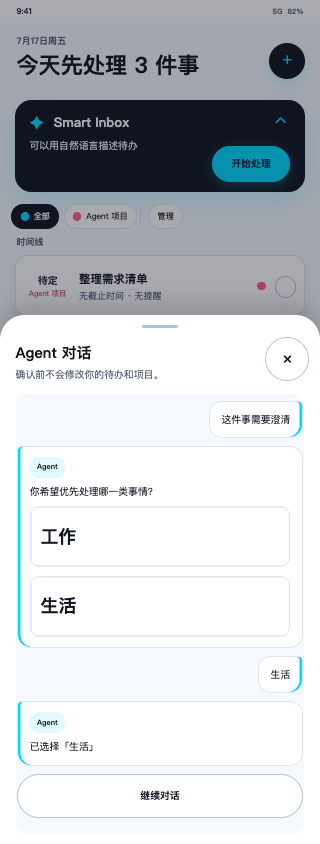
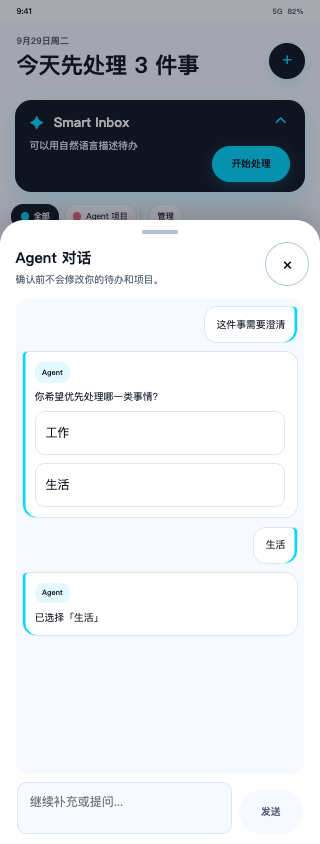
test(agent): 补全多轮对话正式页验收证据

diff --git a/tests/e2e/phase3-agent.spec.ts b/tests/e2e/phase3-agent.spec.ts
@@ -1,5 +1,5 @@
 import AxeBuilder from '@axe-core/playwright';
-import { expect, test, type APIRequestContext, type Page } from '@playwright/test';
+import { expect, test, type APIRequestContext, type Page, type Route } from '@playwright/test';
 
 const origin = `http://127.0.0.1:${Number(process.env.H5_PORT ?? 11086)}`;
 
@@ -113,7 +113,14 @@ test('Phase 3 对话、计划、Smart Inbox 与原子确认形成真实闭环', 
   expect(completed.items.length).toBeGreaterThan(0);
 
   await openAgentInput(page);
+  const clarificationTurnResponse = page.waitForResponse(
+    (response) =>
+      response.url().includes('/api/v1/agent/turns') && response.request().method() === 'POST',
+  );
   await submitAgentText(page, '这件事需要澄清');
+  const initialClarification = (await (await clarificationTurnResponse).json()) as {
+    conversationId: string;
+  };
   const conversation = page.getByRole('dialog', { name: 'Agent 对话' });
   await expect(conversation.getByText('你希望优先处理哪一类事情？')).toBeVisible({
     timeout: 20_000,
@@ -125,6 +132,7 @@ test('Phase 3 对话、计划、Smart Inbox 与原子确认形成真实闭环', 
     await expect(resolvedOption).toContainText(label);
     await expect(resolvedOption).toHaveCSS('color', 'rgb(16, 20, 32)');
     await expect(resolvedOption).toHaveCSS('opacity', '1');
+    await expect(resolvedOption).toHaveCSS('font-size', '12px');
   }
 
   await expect(conversation).not.toContainText('e2e-stub');
@@ -161,9 +169,125 @@ test('Phase 3 对话、计划、Smart Inbox 与原子确认形成真实闭环', 
           }),
       );
     expect(undersizedTargets, `${width}px Agent 面板不得存在小于 44px 的点击目标`).toEqual([]);
+    const composer = conversation.locator('.agentConversationComposer');
+    const thread = conversation.locator('.agentConversation');
+    const bounds = await Promise.all([composer.boundingBox(), thread.boundingBox()]);
+    expect(bounds[0] && bounds[1] && bounds[0].y >= bounds[1].y + bounds[1].height).toBe(true);
     await page.screenshot({
       animations: 'disabled',
       path: `docs/quality/screenshots/phase3-agent-clarification-${width}x844.png`,
     });
   }
+
+  await page.setViewportSize({ width: 390, height: 560 });
+  await expect(conversation.getByLabel('继续告诉 Agent 的内容').locator('textarea')).toBeVisible();
+  await page.screenshot({
+    animations: 'disabled',
+    path: 'docs/quality/screenshots/phase3-agent-clarification-390x560.png',
+  });
+  const input = conversation.getByLabel('继续告诉 Agent 的内容').locator('textarea');
+  const inputBounds = await input.boundingBox();
+  const sendBounds = await conversation.getByRole('button', { name: '发送给 Agent' }).boundingBox();
+  expect(inputBounds?.width).toBeGreaterThan(180);
+  expect(sendBounds?.width).toBeLessThanOrEqual(80);
+  expect(sendBounds && inputBounds && sendBounds.x >= inputBounds.x + inputBounds.width).toBe(true);
+  await input.fill('关于生活的第一轮补充');
+  const firstFollowupResponse = page.waitForResponse(
+    (response) =>
+      response.url().includes('/api/v1/agent/turns') && response.request().method() === 'POST',
+  );
+  await conversation.getByRole('button', { name: '发送给 Agent' }).click();
+  const firstFollowup = (await (await firstFollowupResponse).json()) as { conversationId: string };
+  expect(firstFollowup.conversationId).toBe(initialClarification.conversationId);
+  await expect(conversation.getByText('关于生活的第一轮补充')).toBeVisible({ timeout: 20_000 });
+  await expect(conversation.getByText('我已经理解你的目标，可以继续为你生成计划。')).toBeVisible({
+    timeout: 20_000,
+  });
+
+  await input.fill('验证上下文');
+  const secondFollowupResponse = page.waitForResponse(
+    (response) =>
+      response.url().includes('/api/v1/agent/turns') && response.request().method() === 'POST',
+  );
+  await conversation.getByRole('button', { name: '发送给 Agent' }).click();
+  const secondFollowup = (await (await secondFollowupResponse).json()) as {
+    conversationId: string;
+  };
+  expect(secondFollowup.conversationId).toBe(initialClarification.conversationId);
+  await expect(conversation.getByText('已关联前文的澄清和第一轮补充。')).toBeVisible({
+    timeout: 20_000,
+  });
+
+  await input.fill('这件事需要澄清');
+  await conversation.getByRole('button', { name: '发送给 Agent' }).click();
+  await expect(conversation.getByRole('button', { name: '都不是，补充说明' })).toBeEnabled({
+    timeout: 20_000,
+  });
+  await conversation.getByRole('button', { name: '都不是，补充说明' }).click();
+  await expect(input).toBeFocused();
+  await input.fill('我需要先处理家里的事情');
+  let rejectedOnce = false;
+  const rejectStaleAnswer = async (route: Route) => {
+    if (rejectedOnce) return route.continue();
+    rejectedOnce = true;
+    await route.fulfill({
+      contentType: 'application/json',
+      status: 409,
+      body: JSON.stringify({
+        error: {
+          code: 'AGENT_MESSAGE_VERSION_CONFLICT',
+          details: {},
+          message: '问题已发生变化，请刷新后重试',
+          requestId: 'req_e2econflict',
+        },
+      }),
+    });
+  };
+  await page.route('**/api/v1/conversations/*/messages/*/answers', rejectStaleAnswer);
+  const rejectedAnswer = page.waitForResponse(
+    (response) => response.url().includes('/answers') && response.status() === 409,
+  );
+  await conversation.getByRole('button', { name: '发送给 Agent' }).click();
+  await rejectedAnswer;
+  await expect(input).toHaveValue('我需要先处理家里的事情');
+  await expect(conversation.getByRole('button', { name: '发送给 Agent' })).toBeEnabled();
+  await page.unroute('**/api/v1/conversations/*/messages/*/answers', rejectStaleAnswer);
+  const freeTextAnswer = page.waitForResponse(
+    (response) => response.url().includes('/answers') && response.request().method() === 'POST',
+  );
+  await conversation.getByRole('button', { name: '发送给 Agent' }).click();
+  const freeTextAnswerResponse = await freeTextAnswer;
+  expect(freeTextAnswerResponse.status()).toBe(202);
+  const freeTextQueued = (await freeTextAnswerResponse.json()) as {
+    request: { requestId: string };
+  };
+  await expect(conversation.getByText('我需要先处理家里的事情')).toBeVisible({ timeout: 20_000 });
+  await expect
+    .poll(
+      async () => {
+        const response = await page.request.get(
+          `/api/v1/agent/requests/${freeTextQueued.request.requestId}`,
+        );
+        return ((await response.json()) as { status: string }).status;
+      },
+      { timeout: 20_000 },
+    )
+    .toBe('SUCCEEDED');
+  await expect(conversation.getByText('Agent 正在处理…')).toBeHidden({ timeout: 20_000 });
+
+  await input.fill('关闭期间继续处理');
+  let closingTurnCount = 0;
+  const delayedTurn = async (route: Route) => {
+    closingTurnCount += 1;
+    await new Promise((resolve) => setTimeout(resolve, 750));
+    await route.continue();
+  };
+  await page.route('**/api/v1/agent/turns', delayedTurn);
+  await conversation.getByRole('button', { name: '发送给 Agent' }).dblclick();
+  await expect.poll(() => closingTurnCount).toBe(1);
+  await conversation.getByRole('button', { name: '关闭Agent 对话' }).click();
+  await expect(conversation).toBeHidden();
+  await page.waitForTimeout(1_000);
+  await expect(conversation).toBeHidden();
+  await page.unroute('**/api/v1/agent/turns', delayedTurn);
 });

diff --git a/docs/quality/2026-09-29-agent-conversation-review.md b/docs/quality/2026-09-29-agent-conversation-review.md
@@ -1,0 +1,29 @@
+# 正式 Agent 对话浮层修正验收
+
+日期：2026-09-29。对照 Figma Production V3 `229:2` 与 PRD 4.7，范围为正式 H5 对话浮层；T24 人工审查门禁保持待审。
+
+## 修正结果
+
+- 标题留在顶部、消息区独立滚动、文字输入和发送按钮固定在底部。390×560 压缩视口下输入仍可见；监听 `visualViewport` 的高度和偏移，让键盘收缩可用区域时优先缩小消息区。
+- 候选按钮使用项目的 12px/18px 正文字号与常规字重，清理 Taro 默认按钮边框；保留白底、细边框和至少 44px 热区。禁用发送态使用既有 Screen/Muted 色，axe 对比度检查通过。
+- 同一浮层的普通追问沿用 `conversationId`；最新待回答问题的自由文本走原回答接口，候选按钮继续走原选项接口。“都不是，补充说明”聚焦底部输入。处理中可继续编辑草稿，发送入口禁用；请求成功只清除本次草稿，冲突后刷新问题并保留文本。
+- 已关闭或切换的浮层不会因本次文本提交结果重新打开。没有新增公开 API、数据表、Agent 协议或写入确认路径。
+
+## 正式页证据
+
+| 视口    | 截图                                                             |
+| ------- | ---------------------------------------------------------------- |
+| 320×844 | [Agent 对话](screenshots/phase3-agent-clarification-320x844.png) |
+| 390×844 | [Agent 对话](screenshots/phase3-agent-clarification-390x844.png) |
+| 480×844 | [Agent 对话](screenshots/phase3-agent-clarification-480x844.png) |
+| 390×560 | [压缩视口](screenshots/phase3-agent-clarification-390x560.png)   |
+
+三档宽度的真实按钮热区检查、无横向溢出、输入区位于消息区下方，以及 390×560 的输入宽度断言均通过。压缩视口用于模拟软键盘占用空间；本轮没有在实体手机上验证系统键盘。
+
+## 运行复验
+
+- 客户端单测 79/79；仓库 `pnpm test` 12/12 任务通过。`pnpm lint` 8/8、`pnpm typecheck` 12/12、`pnpm build` 8/8 通过；构建需在允许访问 macOS 系统配置的环境运行，沙箱内 Taro 原生模块会崩溃。
+- 完整 H5 E2E 仍按注册限流约束分两片运行：第一片 10/10、第二片 10/10。最后的异步关闭保护和 390×560 截图又由定向 Phase 3 E2E 1/1 复验。
+- Phase 3 用例覆盖同一会话内至少三轮文字问答、上下文传递、候选选择后的续聊、自由文本回答、409 后草稿保留与重试、请求处理中关闭、提案确认、axe 和三视口截图。请求与结果的入库、计费、幂等仍由原服务端实现及既有测试验证。
+
+本轮未使用真实用户数据、未部署生产；T25–T27 未启动。

diff --git a/tasks/current.md b/tasks/current.md
@@ -1,9 +1,11 @@
 # 当前任务
 
+> 2026-09-29：正式 Agent 对话浮层已按 Production V3 与 PRD 4.7 修正，固定底部输入、统一候选字体，并支持同浮层多轮问答。完整 H5 E2E 两片各 10/10，定向 Phase 3 E2E 1/1；验收证据见[对话浮层专项](../docs/quality/2026-09-29-agent-conversation-review.md)。T24 人工审查仍待完成。
+
 > 2026-09-28：正式产品 UX 动效专项已实施，完整 H5 E2E 分两片运行各 10/10；保留 T24 人工审查门禁。动效规格与运行复验见[专项报告](../docs/quality/2026-09-28-production-motion-review.md)；本节原有 Phase 3 历史记录继续保留。
 
-- 任务：正式产品 UX 动效专项完成，等待 T24 人工审查
-- 状态：本轮完整 H5 E2E 分片 20/20、客户端单元 79/79；停在 T24。此前 19/19 和 40/40 属于上一提交的全量运行记录。
+- 任务：正式 Agent 对话浮层修正完成，等待 T24 人工审查
+- 状态：本轮完整 H5 E2E 分片 20/20、定向 Phase 3 E2E 1/1、客户端单元 79/79；停在 T24。此前 19/19 和 40/40 属于上一提交的全量运行记录。
 - 工作分支：`dev`；原独立验收基线为 `f178d673112a8b54cb1c84da390384b204ade614`
 - 当前门禁：H2 历史人工通过；T24 等待人工审查；H3 仍未通过
 - 最新修复复验：[`docs/quality/2026-09-27-production-agent-input-review.md`](../docs/quality/2026-09-27-production-agent-input-review.md)

diff --git a/tasks/todo.md b/tasks/todo.md
@@ -4,6 +4,8 @@
 
 ## 当前验收事项
 
+- [x] 正式 Agent 对话浮层：固定底部输入与独立滚动消息区、统一候选字体、同会话多轮问答及 409 草稿保留；证据见[对话浮层专项](../docs/quality/2026-09-29-agent-conversation-review.md)，T24 人工审查状态不变。
+
 - [x] 正式产品 UX 动效专项：轻快克制的按压、弹层、折叠、任务与 Agent 状态反馈；不改变静态 UI 和业务逻辑。证据见[动效专项](../docs/quality/2026-09-28-production-motion-review.md)，T24 人工审查状态不变。
 
 - [x] 正式 Agent 文字输入弹层：修复字号、重复边框、textarea 白底/缩放手柄及热区；补齐正式路由三视口回归。
